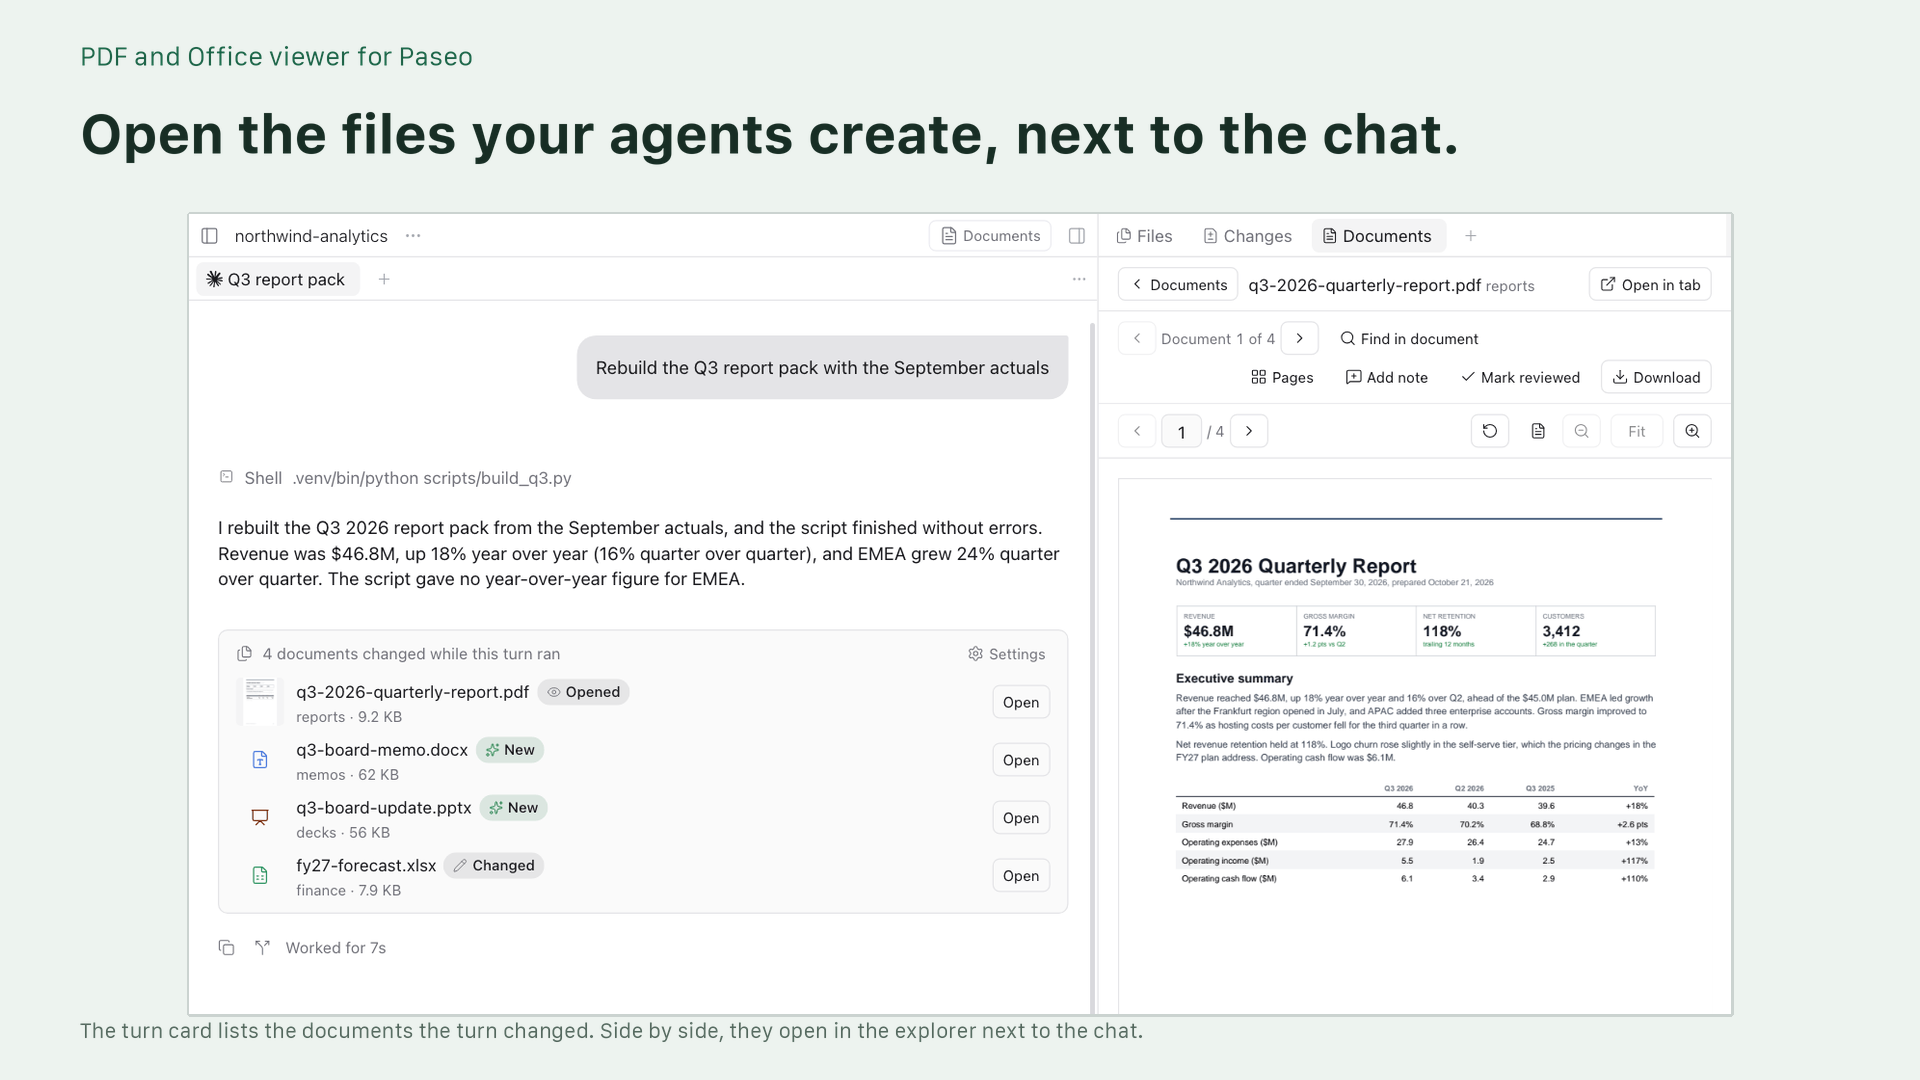
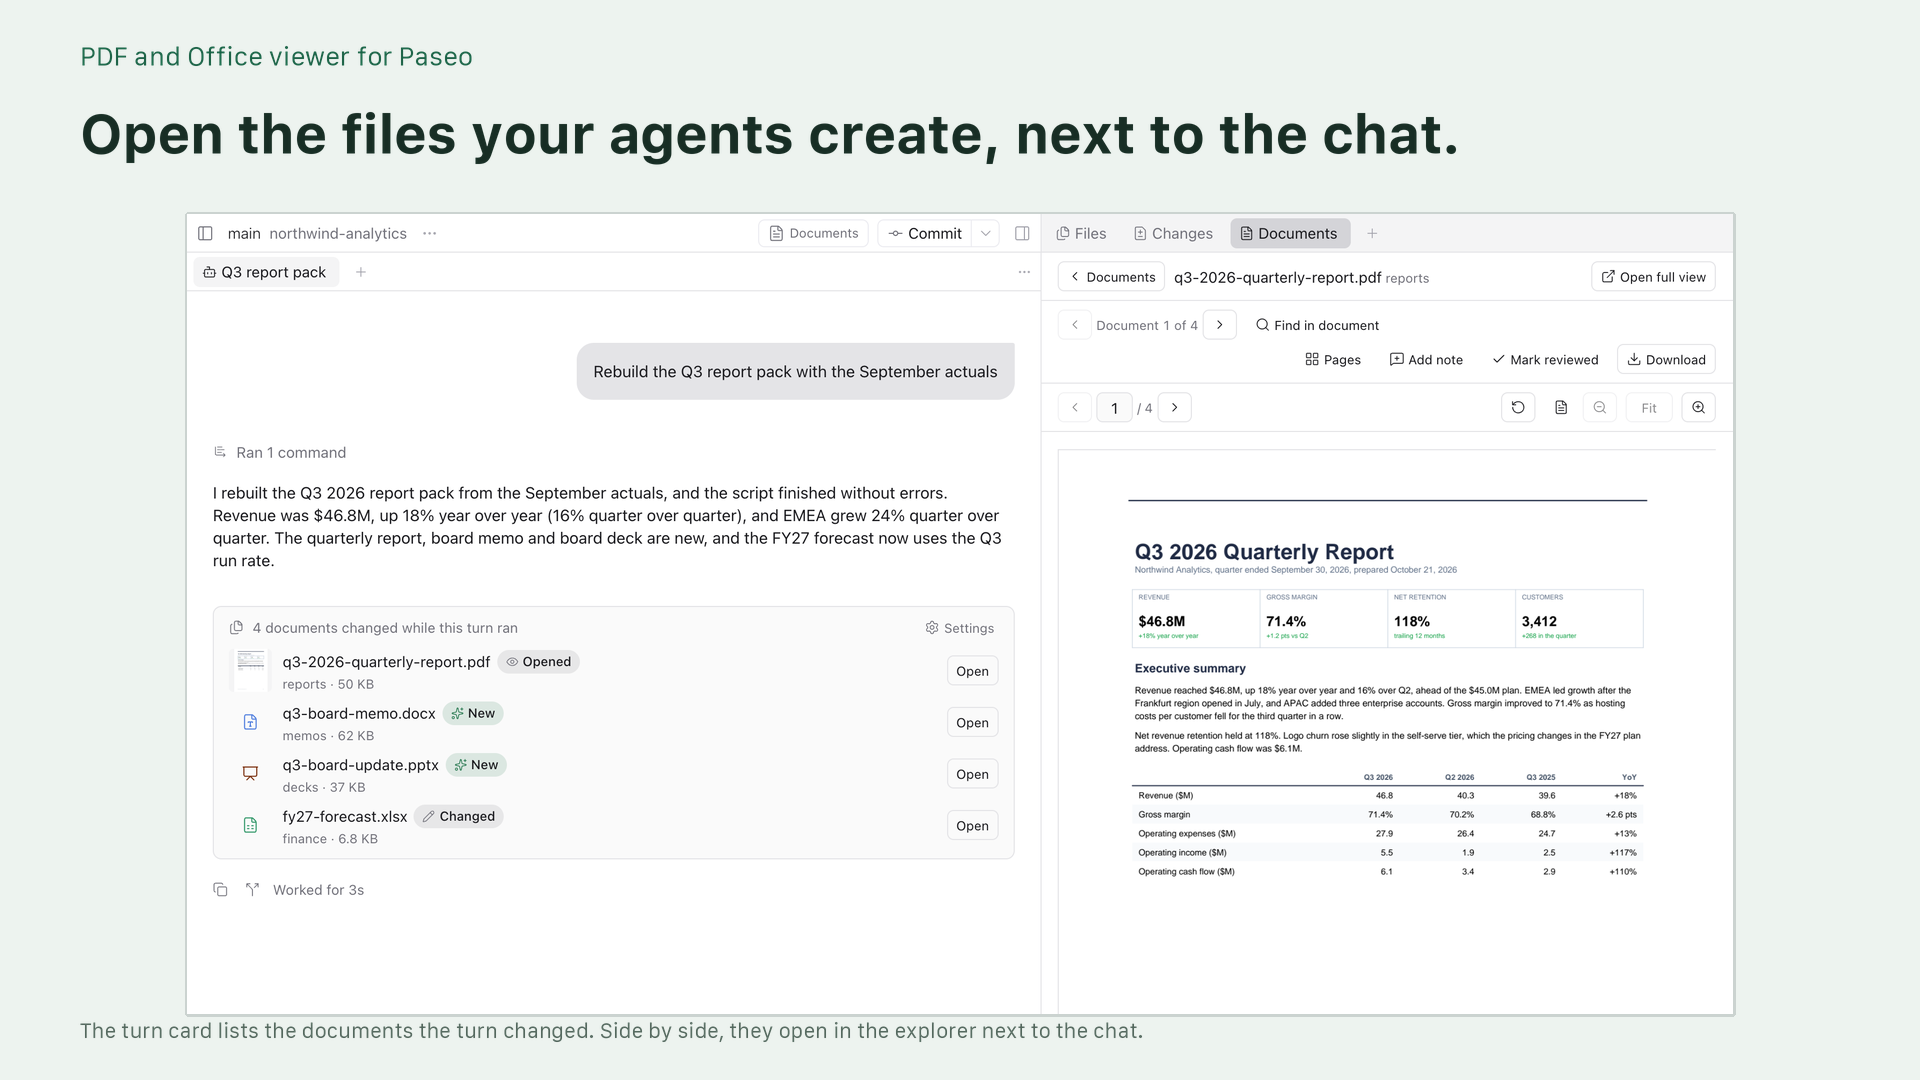
chore: release 0.7.0, with a reshot cover and a file tab listing image

diff --git a/docs/releases/0.7.0.md b/docs/releases/0.7.0.md
@@ -1,6 +1,6 @@
-# 0.7.0 release candidate
+# 0.7.0 release
 
-Status: implementation and automated host verification complete. Publication is pending.
+Status: released on 2026-10-30.
 
 ## Scope
 
@@ -31,8 +31,8 @@ Devkit 0.1.0 checked client registrations with Paseo 0.11 rules and failed `clie
 
 ## Release steps
 
-1. Reshoot the listing images with a real agent turn that opens documents in file tabs, as for 0.6.0. The `verify/0.7.0` screenshots are test evidence, not listing material.
-2. Date the changelog entry, tag `v0.7.0`, publish the GitHub release and update the registry.
+1. Listing images reshot: the cover shows Open full view, and a new page shows a document in Paseo's file tab. The `verify/0.7.0` screenshots stay test evidence.
+2. Changelog dated, `v0.7.0` tagged, GitHub release published, registry updated.
 
 ## Coverage limits
 

diff --git a/CHANGELOG.md b/CHANGELOG.md
@@ -1,6 +1,6 @@
 # Changelog
 
-## 0.7.0 (unreleased)
+## 0.7.0 (2026-10-30)
 
 ### New
 
